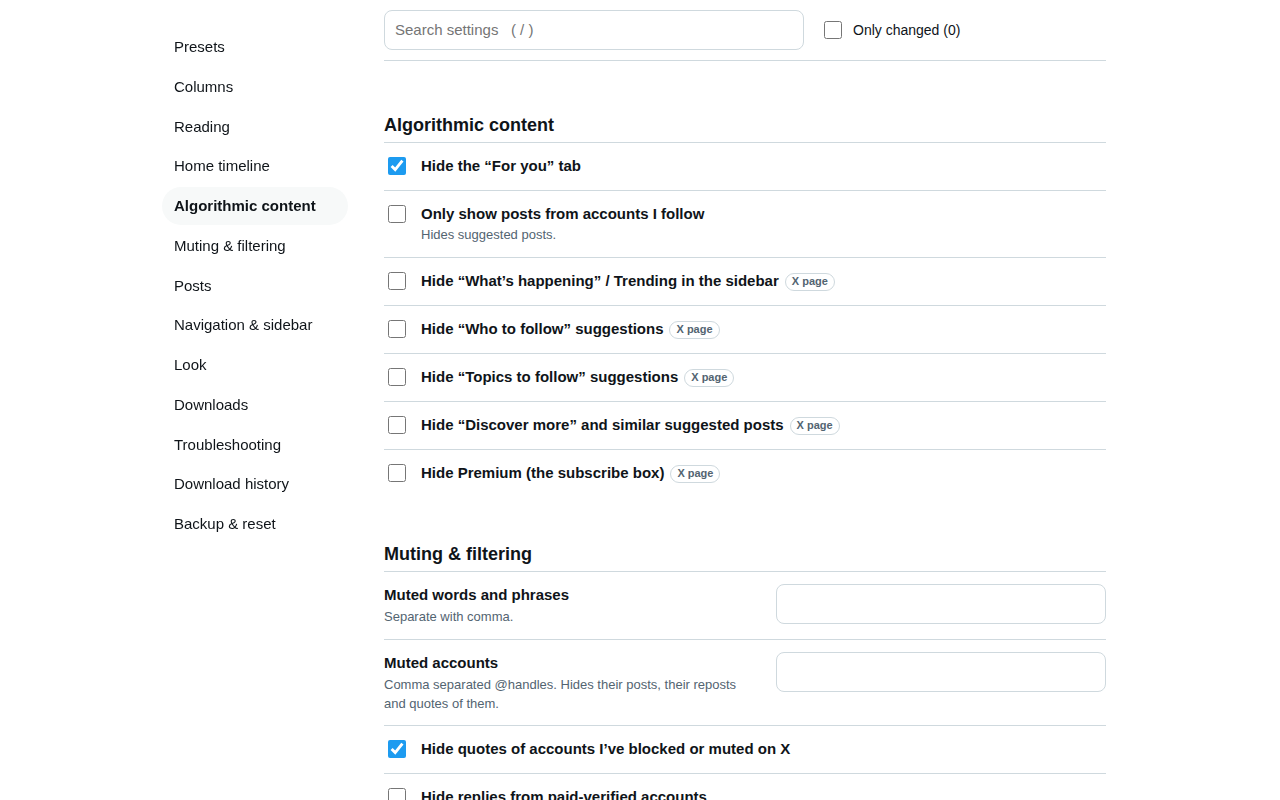
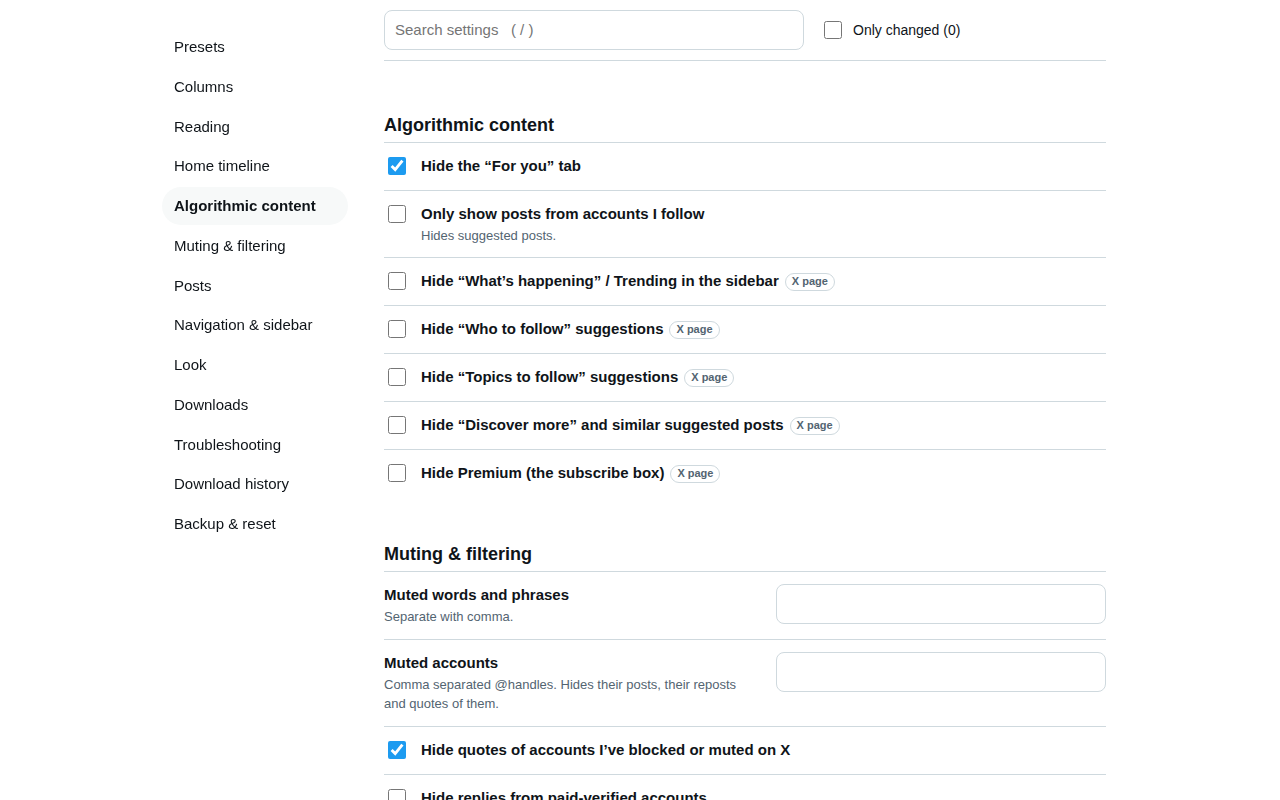
Store: a slide of the settings panel over the columns (slide 6; the settings page is now slide 7)
Claude-Session: https://claude.ai/code/session_018kEDBPkK9jgvVfS9DEM5ks

Changed region(s): [[0.3125, 0.9062, 0.625, 1.0], [0.3438, 0.2812, 0.4375, 0.3125]]

diff --git a/store/make-screenshots.js b/store/make-screenshots.js
@@ -211,7 +211,7 @@ async function main() {
   fs.mkdirSync(OUT, { recursive: true });
   const browser = await chromium.launch({ executablePath: process.env.XMC_BROWSER, headless: true });
   const server = await start({ pages: 12 });
-  const SETTINGS = { v: 9, hintSeen: true, branding: 'x', cardStyle: 'raised' };
+  const SETTINGS = { v: 10, hintSeen: true, branding: 'x', cardStyle: 'raised' };
 
   async function context(width, height, settings) {
     const ctx = await browser.newContext({ viewport: { width, height }, deviceScaleFactor: 1 });
@@ -283,6 +283,21 @@ async function main() {
   await page.evaluate(() => { document.getElementById('sec-algorithm').scrollIntoView(); window.scrollBy(0, -104); });
   await page.waitForTimeout(800);
   await save(page, '06-settings', { scale: false });
+  await ctx.close();
+
+  // 7. the settings panel, over the columns (the gear in the bar), with the presets open and the other sections folded below
+  const S = require('../src/settings.js');
+  ctx = await context(1920, 1200, Object.assign({ cols: 4 }, S.PRESETS.find((p) => p.id === 'plain').set));
+  page = await ctx.newPage();
+  await page.goto(server.origin + '/home/');
+  await ready(page);
+  await page.locator('.xmc-gear').click();
+  await page.waitForSelector('#xmc-settings iframe', { timeout: 8000 });
+  const frame = page.frames().find((f) => /popup\.html/.test(f.url()));
+  await frame.waitForSelector('#sections h2 button.fold', { timeout: 8000 });
+  await frame.locator('#sections h2 button.fold', { hasText: 'Presets' }).click();
+  await page.waitForTimeout(900);
+  await save(page, '07-settings-panel');
   await ctx.close();
 
   await browser.close(); await server.close();

diff --git a/store/make-slides.js b/store/make-slides.js
@@ -16,6 +16,7 @@ const SLIDES = [
   ['03-photo-viewer', 'Photos and video, done properly', ['Open photos in a viewer, with Download and Copy link', 'Original-size photos and the best video quality, one click', 'Point at a video for a muted preview']],
   ['04-filters', 'Show only what you came for', ['Following by default, “For you” hidden', 'Posts, reposts, quotes or media only', 'Mute words and accounts, read posts fade away']],
   ['05-more-room', 'More room when you want it', ['Fold the menu to icons, slide the side panel away', 'The columns grow into the space', 'Alt+[ and Alt+] from the keyboard']],
+  ['07-settings-panel', 'Settings without leaving the page', ['Open them from the gear in the bar or the toolbar button', 'Each section folds out of a list, and search finds any setting', 'Changes apply as you make them']],
   ['06-settings', 'You decide, and it applies as you go', ['Presets: Just columns, Calm, Media wall', 'Hide Trending, Who to follow, Premium boxes', 'Most changes apply straight away, nothing leaves your browser']],
 ];
 

diff --git a/store/SUBMIT.md b/store/SUBMIT.md
@@ -35,7 +35,7 @@ Note: an unlisted add-on does not update itself. After the public listing is app
    homepage, support site (the GitHub issues page), privacy policy (paste the text of `PRIVACY.md`), notes to reviewer.
 5. Support / contributions link: your Ko-fi, https://ko-fi.com/falsehamartia
    (if the field refuses it, tell me; it only accepts certain donation sites).
-6. Icon: `store/icon-128.png`. Screenshots: `store/screenshots/slides/01-…06-` (see `store/listing.md`;
+6. Icon: `store/icon-128.png`. Screenshots: `store/screenshots/slides/01-…07-` (see `store/listing.md`;
    regenerate with `node store/make-screenshots.js` then `node store/make-slides.js`).
 7. Submit. Automatic checks run first; a person usually reads the notes for add-ons that run on a big site like x.com, so
    it can take from a few days to a couple of weeks. Replies come by email: answer them in the Developer Hub thread.

diff --git a/store/listing.md b/store/listing.md
@@ -57,7 +57,8 @@ Columns on Home, Search, Lists, Bookmarks and profiles; a post panel with its pi
 3. `03-photo-viewer.png` Photos open in a viewer with one-click Download and Copy link.
 4. `04-filters.png` Filter by posts, reposts, quotes or media.
 5. `05-more-room.png` Fold the menu to icons and slide the side panel away: five columns.
-6. `06-settings.png` Every setting on one page: filters, sidebar, downloads and more.
+6. `06-settings-panel.png` The settings in a panel over the page, from the gear or the toolbar button: presets, and every section folded below.
+7. `07-settings.png` Every setting on one page: filters, sidebar, downloads and more.
 
 **Support link ("Support" / contributions field):** https://ko-fi.com/falsehamartia
 **Homepage:** https://github.com/Lynchalot/multi-column-for-x
